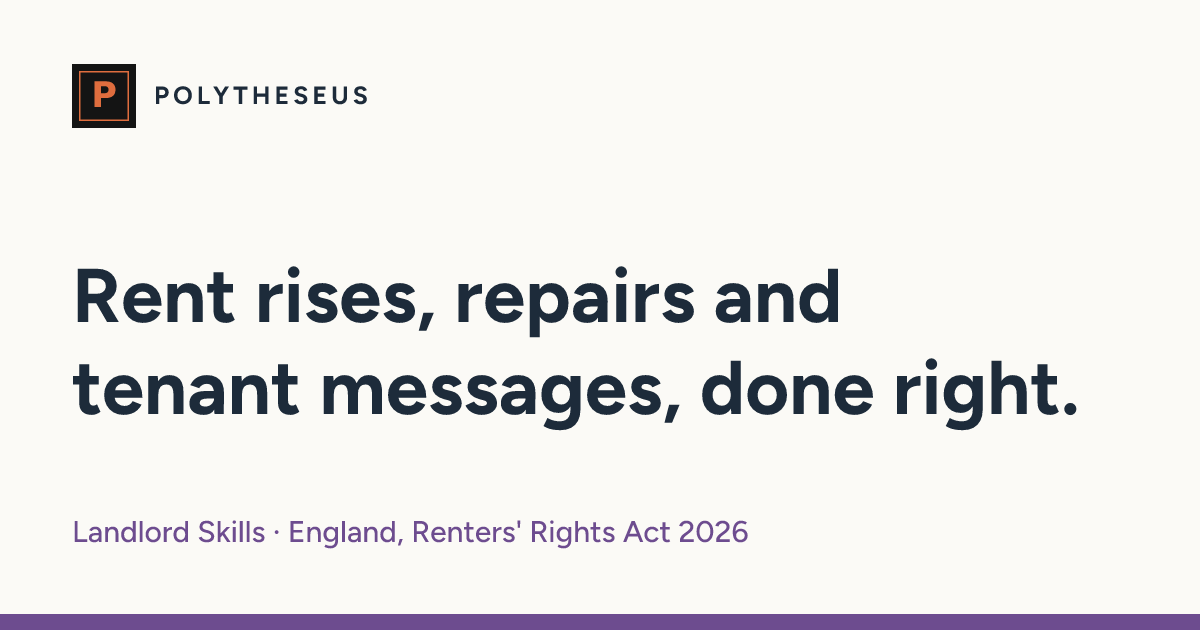
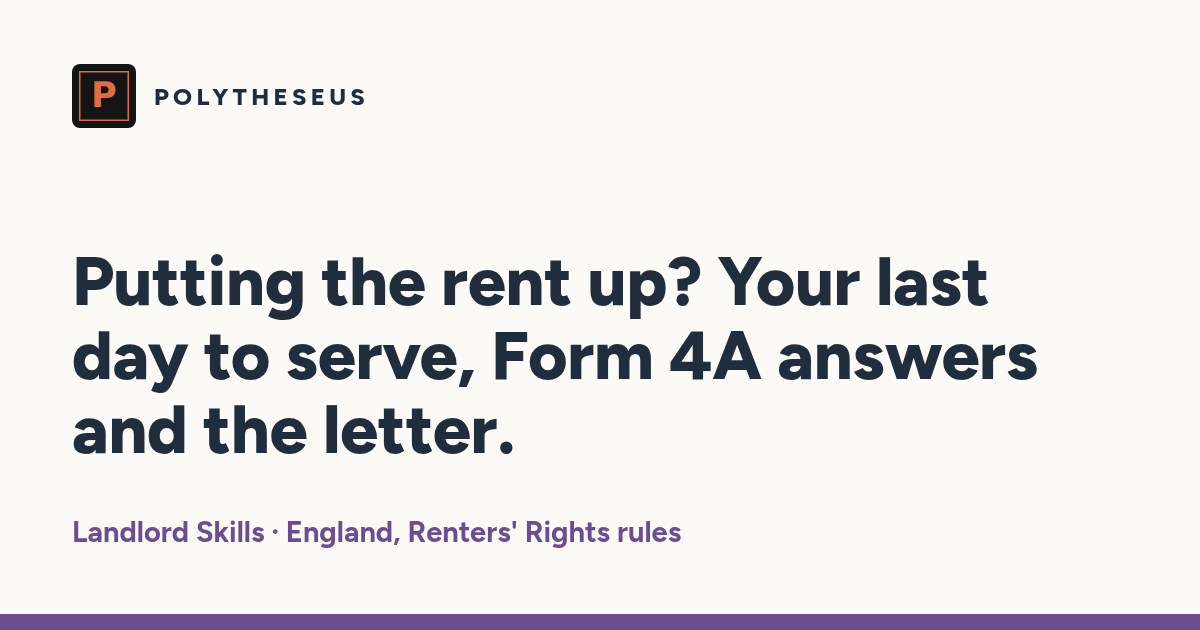
Landlord card and share image: putting the rent up, last day to serve

Changed region(s): [[0.0617, 0.3921, 0.8942, 0.7238], [0.0617, 0.8143, 0.6167, 0.8746], [0.1233, 0.1206, 0.3083, 0.181]]

diff --git a/index.html b/index.html
@@ -107,7 +107,7 @@
     </a>
     <a class="pack landlord" href="/landlord-skills/">
       <p class="who">🔑 For landlords in England</p>
-      <h3>Rent rises, repairs and tenant messages, under the 2026 rules.</h3>
+      <h3>Putting the rent up? Your last day to serve, Form 4A answers and the letter.</h3>
       <ul><li>Section 13 dates and a Form 4A checklist</li><li>Repair replies, access notices and a log</li><li>Pet requests, notice to leave, late rent</li></ul>
       <p class="price"><b>Free</b> · Pro £19 · ChatGPT, Gemini, Claude</p>
     </a>
